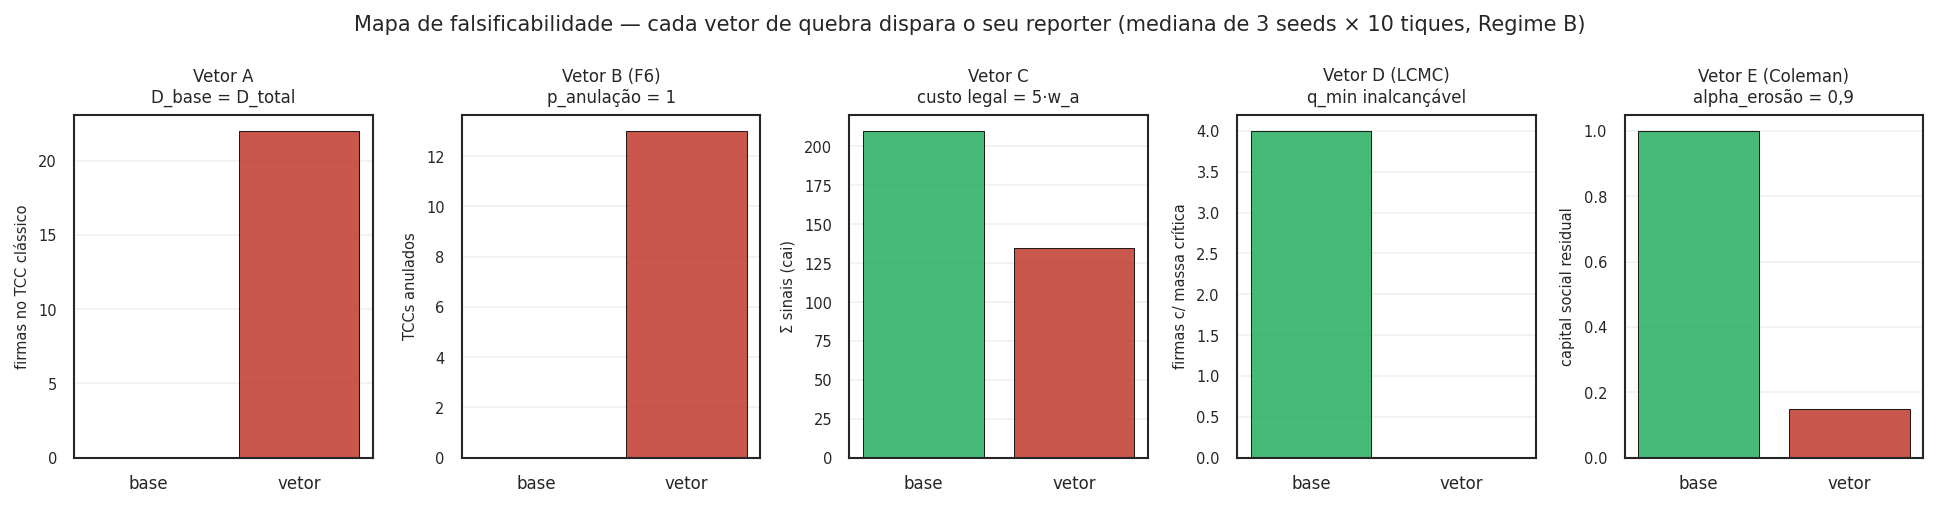
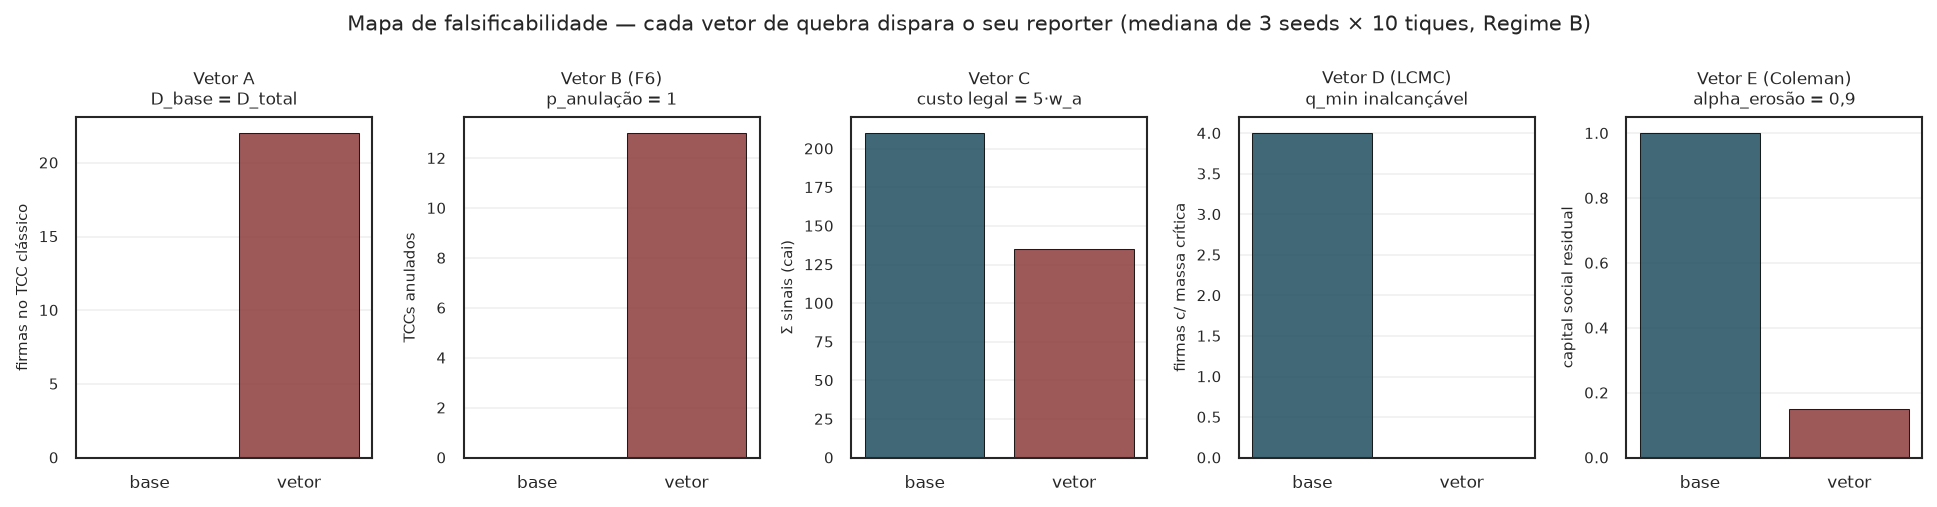
style(viz): paleta acadêmica sóbria em todas as figuras empíricas
Item D1 do brainstorm. A paleta.py usava verde saturado (#27AE60) para
Regime B e roxo saturado (#8E44AD) para Regime C — 'cara de produto
comercial' apontada pelo usuário.

- src/waas_antitrust/viz/paleta.py: PALETA migrada para escala
  grafite-azul de baixa saturação (registro de figura de periódico):
    A  #5D6D7E → #9aa5b1 (cinza-azulado claro)
    B  #27AE60 → #1f4e5f (azul-petróleo escuro)
    C  #8E44AD → #4b3f6b (roxo-grafite)
    adv #C0392B → #8c3b3b (vermelho-tijolo)
    cade #D68910 → #8a6d3b (mostarda escura)
    destaque #16A085 → #2c5f6f
  Distinção daltonismo-amigável preservada (luminâncias separadas +
  MARCADORES + HACHURAS já existentes).

- 10 figuras empíricas regeneradas (03, 10-18) via
  scripts/regerar_todas_as_figuras.py. Conceituais (01, 02) e R29/R30
  (22, 23) não usam PALETA de regime — inalteradas.

24 testes de viz verdes.

diff --git a/src/waas_antitrust/viz/paleta.py b/src/waas_antitrust/viz/paleta.py
@@ -13,15 +13,19 @@ Categoria 6 (Designer, crítica x10):
 import matplotlib.pyplot as plt
 import seaborn as sns
 
+# Paleta acadêmica sóbria (jun/2026). Substitui o verde/roxo/âmbar
+# saturados por tons de baixa saturação em escala grafite-azul, no
+# registro de figura de periódico. Mantém distinção daltonismo-amigável
+# (luminâncias separadas) reforçada por MARCADORES e HACHURAS.
 PALETA = {
-    "A": "#5D6D7E",  # cinza-azulado · Regime A (situação atual)
-    "B": "#27AE60",  # verde · Regime B (Resolução)
-    "C": "#8E44AD",  # roxo · Regime C (Lei)
-    "adv": "#C0392B",  # vermelho · cenários adversariais
-    "cade": "#D68910",  # âmbar · série histórica CADE
-    "neutro_escuro": "#2C3E50",
-    "neutro_claro": "#ECF0F1",
-    "destaque": "#16A085",
+    "A": "#9aa5b1",  # cinza-azulado claro · Regime A (situação atual)
+    "B": "#1f4e5f",  # azul-petróleo escuro · Regime B (Resolução)
+    "C": "#4b3f6b",  # roxo-grafite · Regime C (Lei)
+    "adv": "#8c3b3b",  # vermelho-tijolo sóbrio · cenários adversariais
+    "cade": "#8a6d3b",  # mostarda escura · série histórica CADE
+    "neutro_escuro": "#2d3748",
+    "neutro_claro": "#edf0f3",
+    "destaque": "#2c5f6f",
 }
 
 #: Marcadores por regime — redundância sensorial além da cor.
